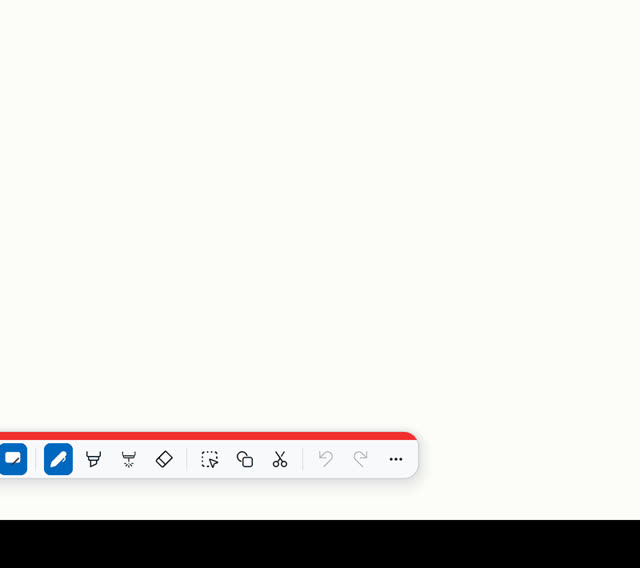
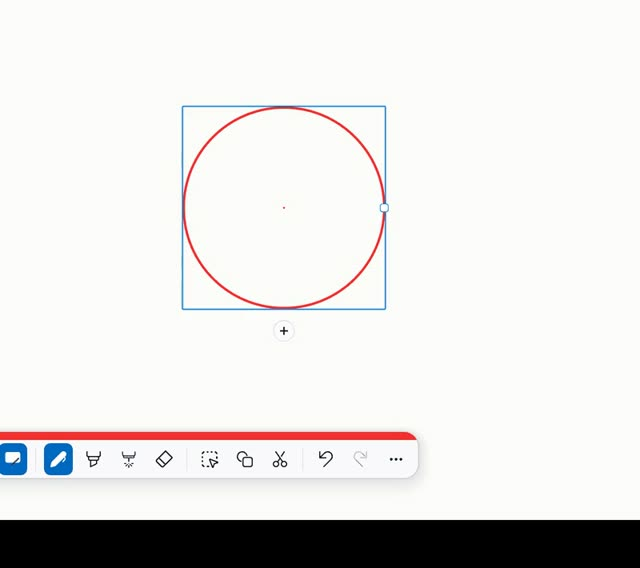
tools: gitcode 清单上传去掉 BOM（GitCode 回 400）；9.9.3 站点数据

Changed region(s): [[0.2812, 0.1796, 0.625, 0.5687], [0.0, 0.7482, 0.6562, 0.838], [0.5312, 0.4789, 0.5625, 0.5088]]

diff --git a/docs/网站部署-OSS.md b/docs/网站部署-OSS.md
@@ -47,22 +47,22 @@ src\InkTeach\InkTeach.csproj  <Version>   ← 版本号唯一来源
 |---|---|---|---|
 | `img/demo.gif` | 331 KB | **删了** | 首屏大图，占全站 2/3 |
 | `img/demo.mp4` | — | **63 KB** | 同画面 H.264，`autoplay muted loop playsinline` |
-| `img/demo-poster.jpg` | — | **12 KB** | 视频封面，首帧就出图，不等视频下载 |
-| 白名单 12 个文件合计 | 约 490 KB | **约 250 KB** | 磁盘体积 |
+| `img/demo-poster.jpg` | — | **14 KB** | 视频封面（取圆变成规整图形那一刻），不等视频下载就有画面 |
+| 白名单 12 个文件合计 | 约 490 KB | **约 296 KB** | 磁盘体积 |
 
-再叠一层 **gzip**（`deploy-site` 对文本类做）：`index.html` 5.8 KB、`style.css` 2.5 KB、
-`i18n.js` 34.6 KB、`site-release.js` 2.3 KB、`release.json` 不到 1 KB。
-文本类合计约 47 KB。
+再叠一层 **gzip**（`deploy-site` 对文本类做）：`index.html` 5.8 KB、`style.css` 2.6 KB、
+`i18n.js` 34.1 KB、`site-release.js` 2.2 KB、`release.json` 0.2 KB。
+文本类合计约 48 KB。
 
-**一次首次访问 ≈ 122 KB**（文本 47 + 封面 12 + 视频 63），视频进缓存后复访 ≈ 60 KB。
+**一次首次访问 ≈ 125 KB**（文本 48 + 封面 14 + 视频 63），视频进缓存后复访 ≈ 62 KB。
 
 按量付费的钱主要花在**外网流出流量**（存储 0.09 元/GB/月，这点文件一个月不到 1 分钱）：
 
 | 月访问量 | 流量 | 流量费（忙时 0.50 元/GB 粗算） |
 |---|---|---|
-| 1,000 次 | ≈ 122 MB | **≈ 0.06 元** |
-| 10,000 次 | ≈ 1.2 GB | ≈ 0.6 元 |
-| 100,000 次 | ≈ 12 GB | ≈ 6 元 |
+| 1,000 次 | ≈ 125 MB | **≈ 0.06 元** |
+| 10,000 次 | ≈ 1.25 GB | ≈ 0.6 元 |
+| 100,000 次 | ≈ 12.5 GB | ≈ 6 元 |
 
 **安装包永远不放 OSS**：zip 16.7 MB / Setup 13.9 MB，一个下载就是网站首屏的 100 倍流量。
 下载继续走 GitHub Releases（国外）+ GitCode（国内），`release.json` 里已经分好了 `gh` / `cn` 两个地址。

diff --git a/调研/宣传-抖音公众号操作单.md b/调研/宣传-抖音公众号操作单.md
@@ -126,7 +126,7 @@
   以后换了演示画面，用这条命令重新生成（GIF 331 KB，MP4 只有 63 KB，省流量）：
   ```
   ffmpeg -y -i design\readme\00-演示.gif -c:v libx264 -preset slow -crf 24 -pix_fmt yuv420p -movflags +faststart -an docs\img\demo.mp4
-  ffmpeg -y -i design\readme\00-演示.gif -vf "select=eq(n\,0),scale=640:-1" -frames:v 1 -q:v 4 docs\img\demo-poster.jpg
+  ffmpeg -y -v error -ss 4 -i design\readme\00-演示.gif -frames:v 1 -vf scale=640:-1 -q:v 4 docs\img\demo-poster.jpg
   ```
 - 官网：<https://xuerenyi0.github.io/InkTeach/>
 - 下载：GitHub Releases / GitCode Releases。
